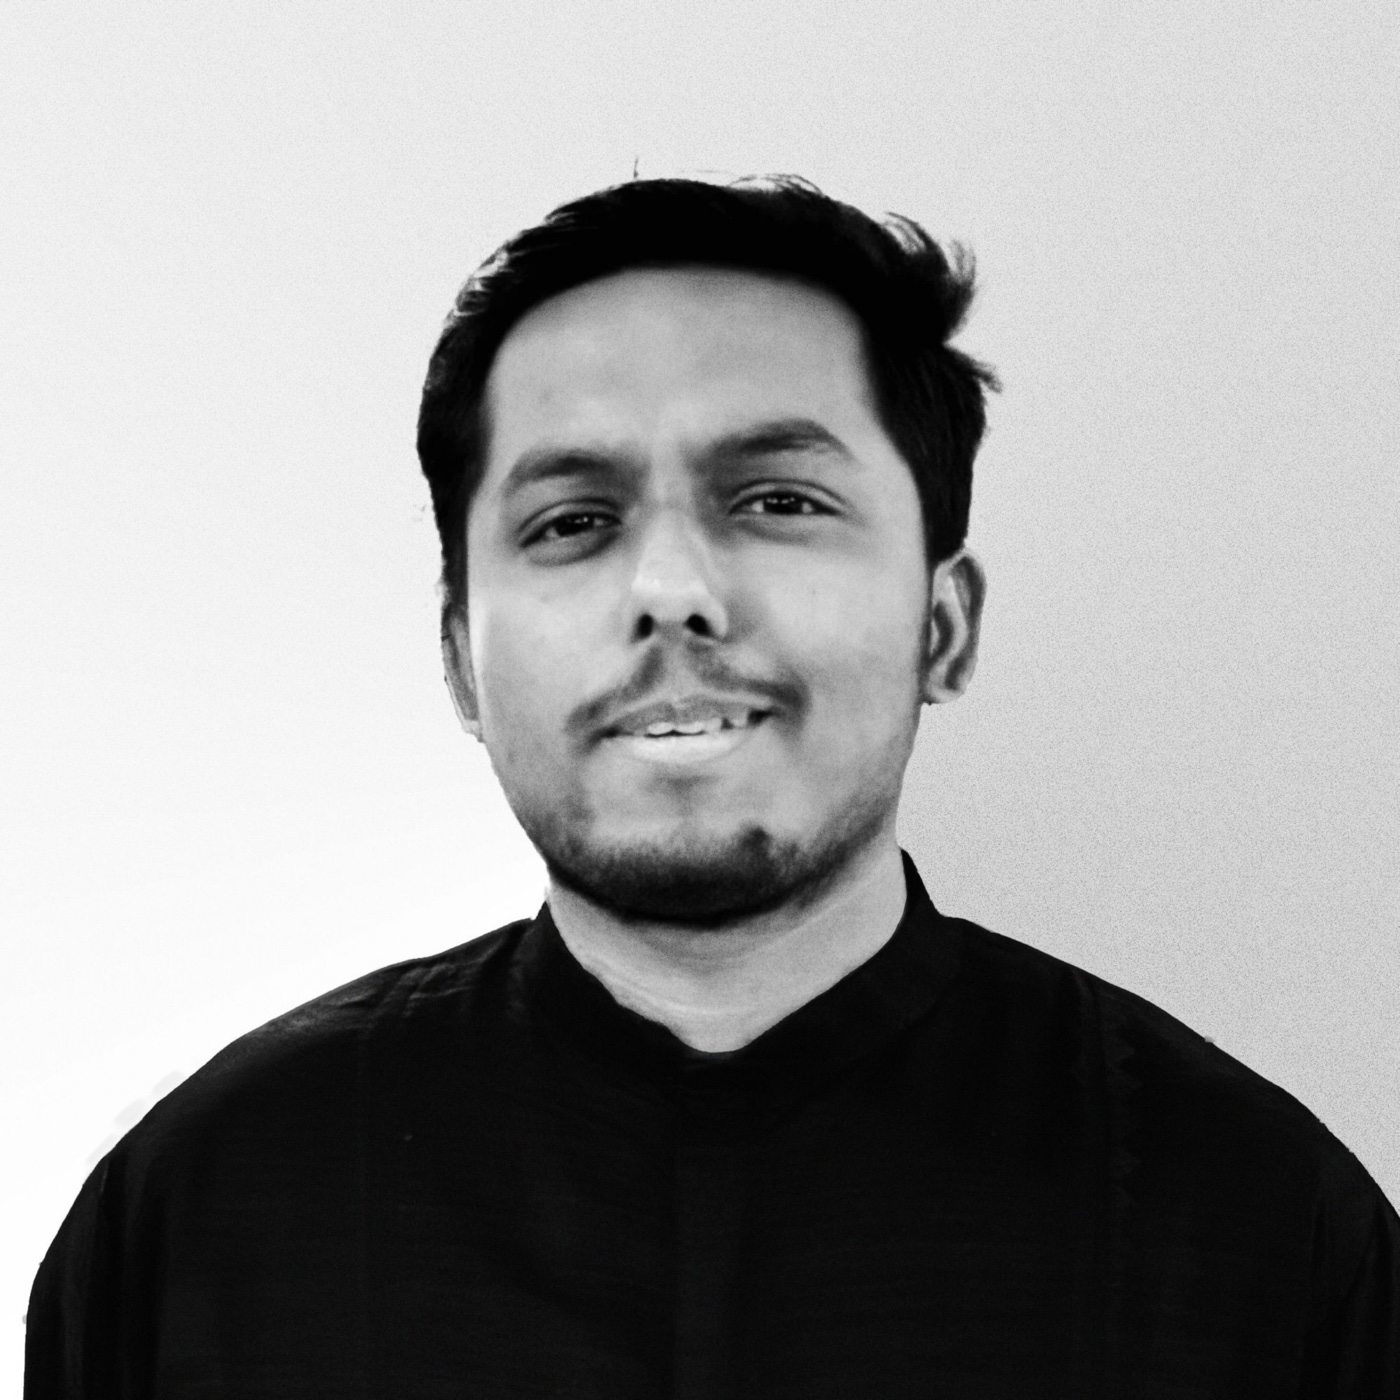
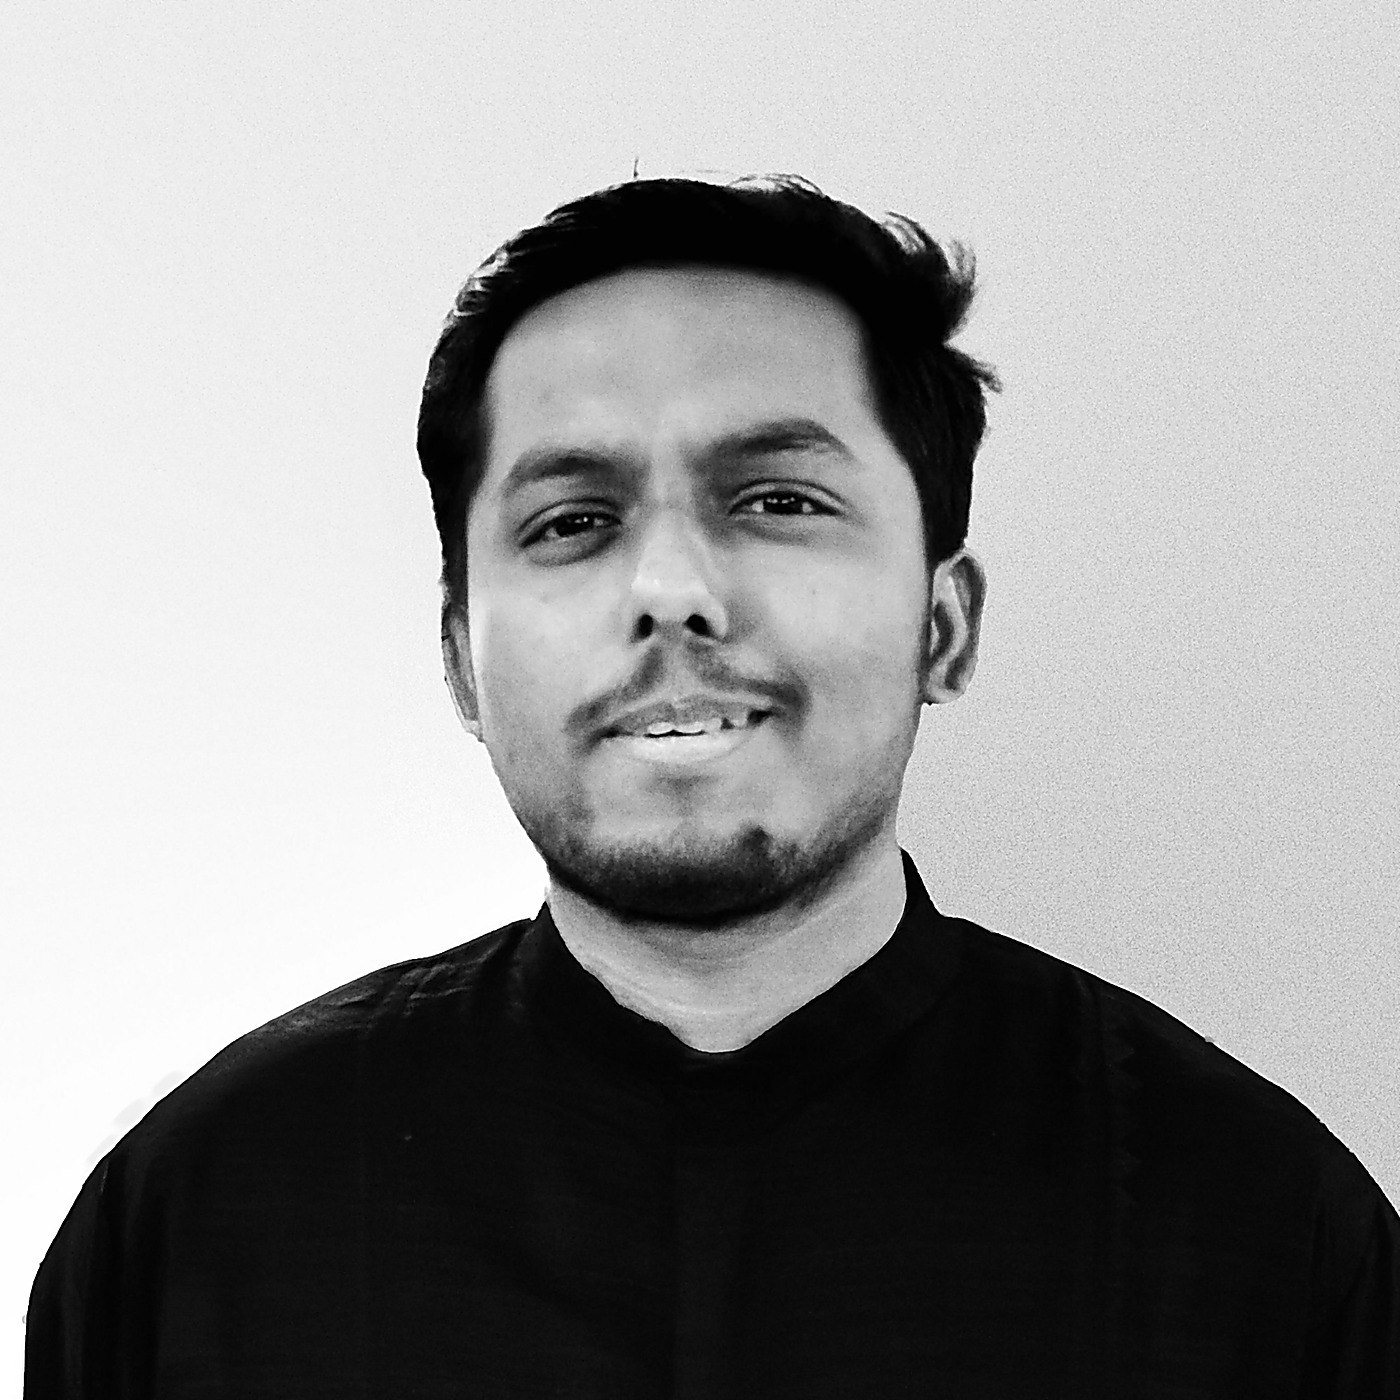
Sharpen portrait and clean the cutout edge by the ear

diff --git a/index.html b/index.html
@@ -69,7 +69,7 @@
 
       <!-- Profile -->
       <section class="profile" id="profile">
-        <div class="portrait"><img src="assets/portrait.jpg?v=5" alt="Photo of Chayan Sarker" width="1400" height="1400" /></div>
+        <div class="portrait"><img src="assets/portrait.jpg?v=6" alt="Photo of Chayan Sarker" width="1400" height="1400" /></div>
 
         <div class="facts">
           <div class="fact">
